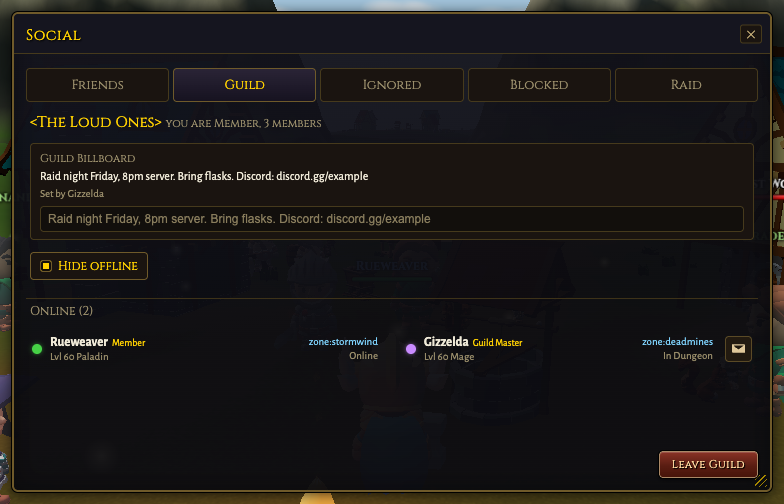
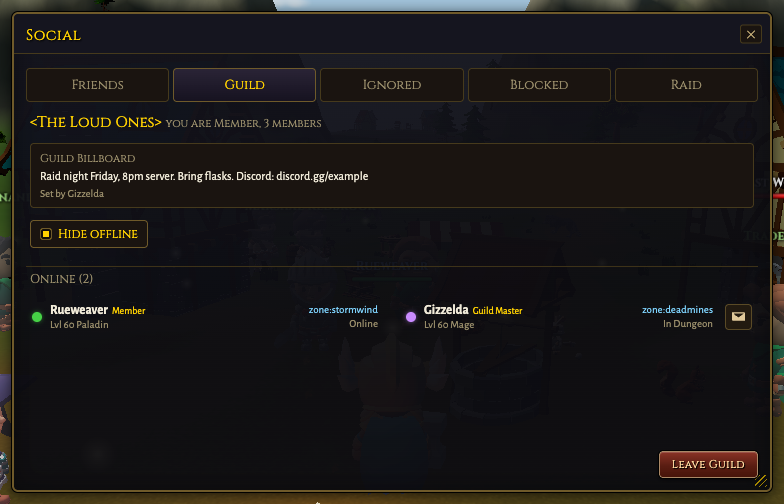
refactor(social): billboard edit row renders for editors only
The message div is the billboard's read view, so a member's disabled
input was just a grayed-out duplicate of the text above it; the edit
row (input + save) now renders only for the leader and officers. With
no message set, members get no billboard box at all, while editors keep
the empty-state line + input so the first message can be written.
Painter guards re-pinned and the member screenshot re-captured.

diff --git a/src/ui/social_window.ts b/src/ui/social_window.ts
@@ -306,8 +306,9 @@ export class SocialWindow {
                 : this.ignoreHtml();
     if (draft) {
       const next = body.querySelector('input[data-field="gmotd"]') as HTMLInputElement | null;
-      // A demotion mid-draft disables the fresh input; drop the draft then.
-      if (next && !next.disabled) {
+      // A demotion mid-draft removes the edit row entirely (editor-only), so
+      // `next` is null then and the draft is dropped.
+      if (next) {
         next.value = draft.value;
         if (draft.focused) {
           next.focus();
@@ -380,12 +381,13 @@ export class SocialWindow {
   }
 
   // Send the billboard edit up through IWorld. Empty is allowed (clears the
-  // billboard); the server owns the rank/mute/rate/content gates and the clamp.
+  // billboard); the input only exists for editors, and either way the server
+  // owns the real rank/mute/rate/content gates and the clamp.
   private saveBillboard(): void {
     const input = this.deps
       .root()
       .querySelector('input[data-field="gmotd"]') as HTMLInputElement | null;
-    if (!input || input.disabled) return;
+    if (!input) return;
     this.deps.world().guildSetMotd(input.value);
   }
 
@@ -489,9 +491,14 @@ export class SocialWindow {
   // The guild billboard: the officer-set message pinned between the guild head
   // and the roster. PLAIN ESCAPED TEXT only, deliberately: the message is
   // player-controlled, so it is never linkified or rendered as HTML (phishing /
-  // XSS surface; nothing else in chat linkifies either). The edit input is
-  // disabled for rank 'member' (UX only; the server enforces the real gate).
+  // XSS surface; nothing else in chat linkifies either). The message div IS the
+  // read view, so the edit row (input + save) renders only for editors (leader
+  // and officer, UX only; the server enforces the real gate): a member never
+  // sees a disabled duplicate of the text above it. With no message set,
+  // members get no billboard box at all; editors keep it (empty-state line +
+  // input) so the feature is discoverable and the first message can be written.
   private billboardHtml(g: NonNullable<GuildView['guild']>): string {
+    if (!g.motd && !g.canEditMotd) return '';
     const message = g.motd
       ? `<div class="soc-billboard-msg">${esc(g.motd)}</div>`
       : `<div class="soc-billboard-msg empty">${esc(t('hudChrome.social.billboard.empty'))}</div>`;
@@ -500,13 +507,12 @@ export class SocialWindow {
         ? `<div class="soc-billboard-by">${esc(t('hudChrome.social.billboard.setBy', { name: g.motdSetBy }))}</div>`
         : '';
     const inputLabel = esc(t('hudChrome.social.billboard.inputLabel'));
-    const edit =
-      `<div class="soc-billboard-edit">` +
-      `<input maxlength="${GUILD_MOTD_MAX}" value="${esc(g.motd)}" aria-label="${inputLabel}" placeholder="${esc(t('hudChrome.social.billboard.placeholder'))}" data-field="gmotd"${g.canEditMotd ? '' : ' disabled'} autocomplete="off" spellcheck="false"/>` +
-      (g.canEditMotd
-        ? `<button type="button" class="btn" data-act="gmotd-save">${esc(t('hudChrome.social.billboard.save'))}</button>`
-        : '') +
-      `</div>`;
+    const edit = g.canEditMotd
+      ? `<div class="soc-billboard-edit">` +
+        `<input maxlength="${GUILD_MOTD_MAX}" value="${esc(g.motd)}" aria-label="${inputLabel}" placeholder="${esc(t('hudChrome.social.billboard.placeholder'))}" data-field="gmotd" autocomplete="off" spellcheck="false"/>` +
+        `<button type="button" class="btn" data-act="gmotd-save">${esc(t('hudChrome.social.billboard.save'))}</button>` +
+        `</div>`
+      : '';
     return (
       `<div class="soc-billboard">` +
       `<div class="soc-billboard-label">${esc(t('hudChrome.social.billboard.label'))}</div>` +

diff --git a/tests/social_window.test.ts b/tests/social_window.test.ts
@@ -209,12 +209,18 @@ describe('social_window: guild billboard', () => {
     expect(section).not.toContain('innerHTML');
   });
 
-  it('disables the edit input for non-editors and gates the save button on canEditMotd', () => {
-    expect(painter).toContain(`g.canEditMotd ? '' : ' disabled'`);
+  it('renders the edit row (input + save) only for editors, never a disabled duplicate', () => {
+    // The message div is the read view; a member must not get a grayed-out
+    // copy of it in an input. UX only: the server enforces the real rank gate.
+    expect(painter).toContain('const edit = g.canEditMotd');
     expect(painter).toContain('data-act="gmotd-save"');
-    // the save dispatch re-checks disabled, so a member cannot save via devtools
-    // un-hiding (UX only either way: the server enforces the real rank gate)
-    expect(painter).toContain('if (!input || input.disabled) return;');
+    expect(painter).not.toContain("' disabled'");
+  });
+
+  it('renders no billboard box at all for a member when no message is set', () => {
+    // With no motd there is nothing to read; only editors keep the box (the
+    // empty-state line + input) so the first message can be written.
+    expect(painter).toContain("if (!g.motd && !g.canEditMotd) return '';");
   });
 
   it('names the input cap after the server clamp instead of a bare literal', () => {
